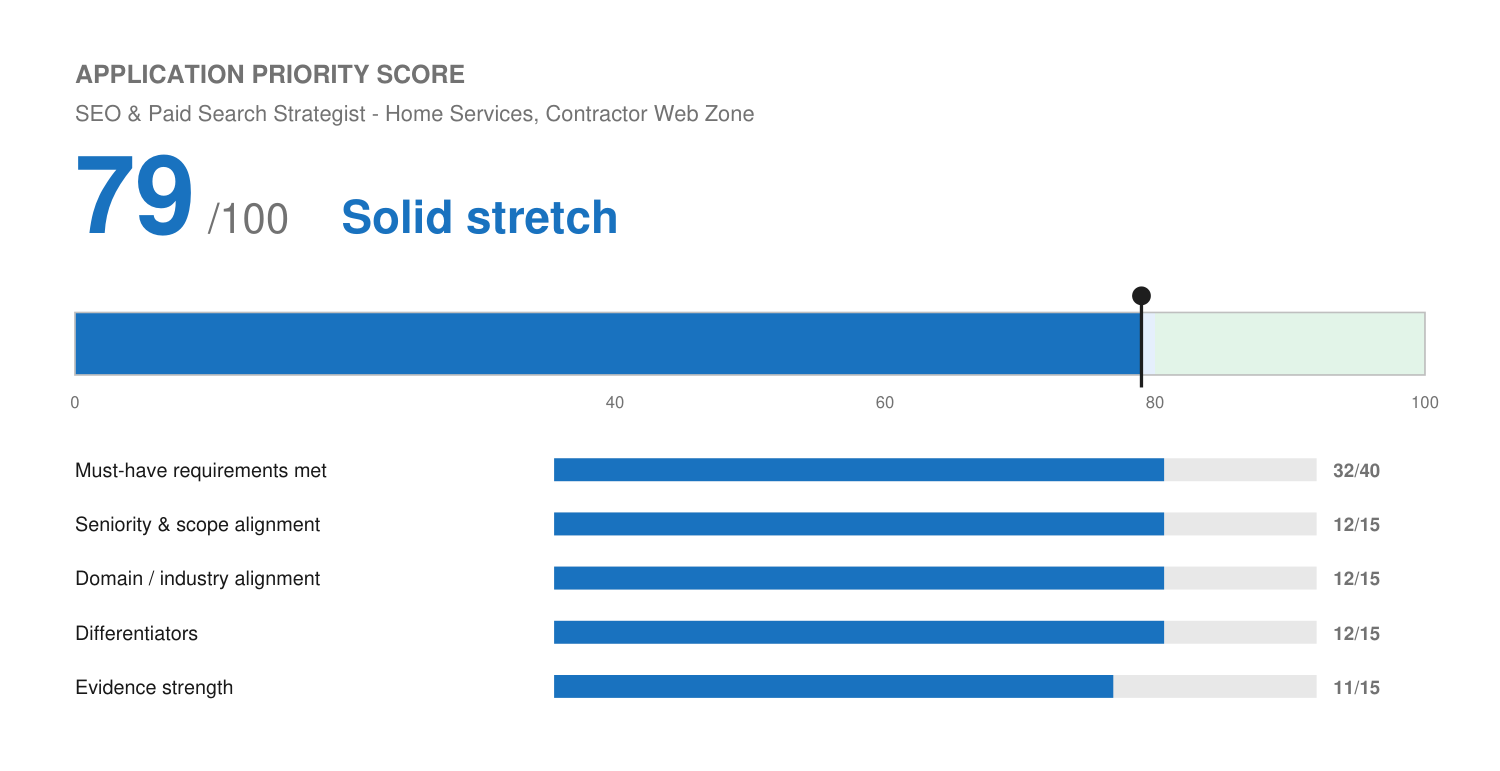
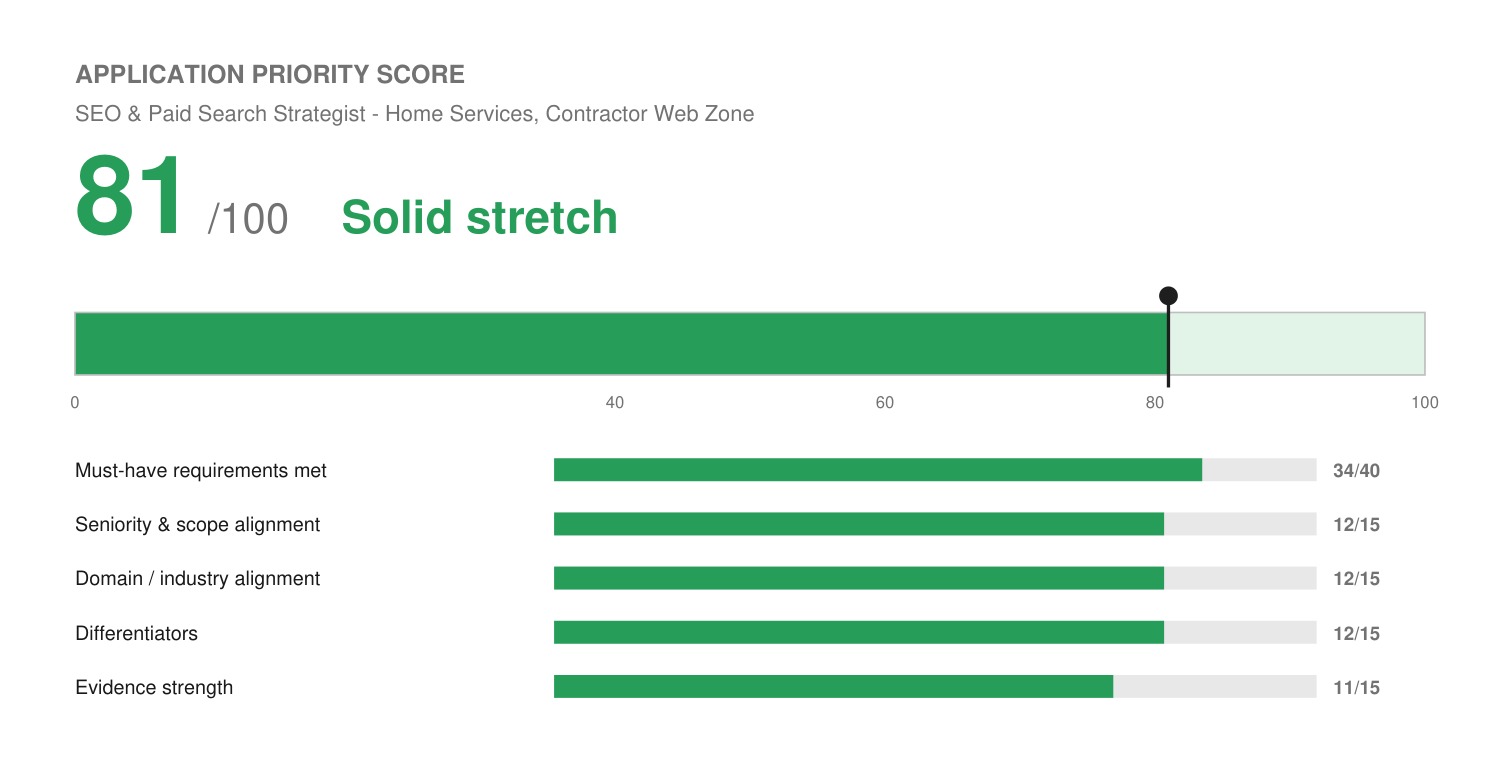
Record Google Tag Manager experience and Yelp-competitor context; update Contractor Web Zone package
Master profile: GTM confirmed (installed at Solenzo, guided at Wix); Yelp Ads gap
clarified as competitive familiarity via Birdeye/Fivestars, not platform experience.
Contractor Web Zone resume and fit score updated (79 -> 81).

Claude-Session: https://claude.ai/code/session_012bgCHkXVGvrCAAv9cv5gL6

diff --git a/profile/master-profile.md b/profile/master-profile.md
@@ -32,6 +32,11 @@
 > Section 508 or WCAG accessibility guidelines. Where a posting lists it as required,
 > record it as a real gap rather than a confirmation item.
 >
+> **Yelp Ads (confirmed Aug 2026):** no hands-on Yelp Ads platform experience. He does have
+> direct competitive-landscape familiarity from working at two companies that compete with
+> Yelp in local business marketing/reputation (Birdeye, Fivestars) — represent this as
+> competitive familiarity, never as Yelp Ads platform experience.
+>
 > **Non-standard schedules:** evenings, weekends, and holidays are acceptable for the right
 > role (confirmed Aug 2026 re: DCPA).
 
@@ -177,6 +182,7 @@ operator talking, not like a candidate performing.
 - Build reusable, boilerplate marketing assets and messaging frameworks as needed for clients, adapting a shared template base to each client's brand and vertical rather than starting from scratch each time.
 
 **Operations & Technical Setup**
+- Install and configure Google Tag Manager on every website built at Solenzo, and guided clients through GTM setup at Wix. *(Confirmed by Josh, Aug 2026.)*
 - Architect and implement complex CRM systems in GoHighLevel (primary) and HubSpot — contact segmentation, lifecycle stages, and strict data-hygiene protocols.
 - Build reusable agent infrastructure and internal tooling integrating with client CRMs and CMS platforms for 24/7 automated growth engines.
 - Own post-sale value delivery for B2B clients, architecting onboarding and technical setup that drives product adoption at scale.
@@ -272,7 +278,7 @@ operator talking, not like a candidate performing.
 | :--- | :--- |
 | CRM & Marketing Automation | GoHighLevel (primary) CRM & Automation Architecture, HubSpot, Salesforce, Workflow Design, Segmentation, Data Hygiene, Lifecycle Stages, Lead Routing |
 | Growth & Demand Generation | Full-funnel acquisition, Lifecycle Marketing, CRO, A/B Testing, Paid Media, Paid Social (Meta Ads certified), SEO, Email Marketing, Landing Pages |
-| Analytics & Reporting | GA4, Google Search Console, Ahrefs, Semrush, Campaign Attribution, ROI Dashboards, QBRs, KPI Tracking |
+| Analytics & Reporting | GA4, Google Search Console, Google Tag Manager, Ahrefs, Semrush, Campaign Attribution, ROI Dashboards, QBRs, KPI Tracking |
 | AI & Automation | Agentic AI, Multi-agent orchestration, LLM workflows, ChatGPT, Claude, Prompt Design, Requirements-to-Prompt Translation, Stakeholder Elicitation, Rapid Prototyping |
 | Customer Success | Onboarding Strategy, Churn Prevention, Time-to-Value Reduction, NPS, Retention, Upsell Identification, Success Plans |
 | Sales & Account Management | Full-cycle Sales, Pipeline Management, C-Suite Relationship Building, Strategic Advisory, Account Expansion |
